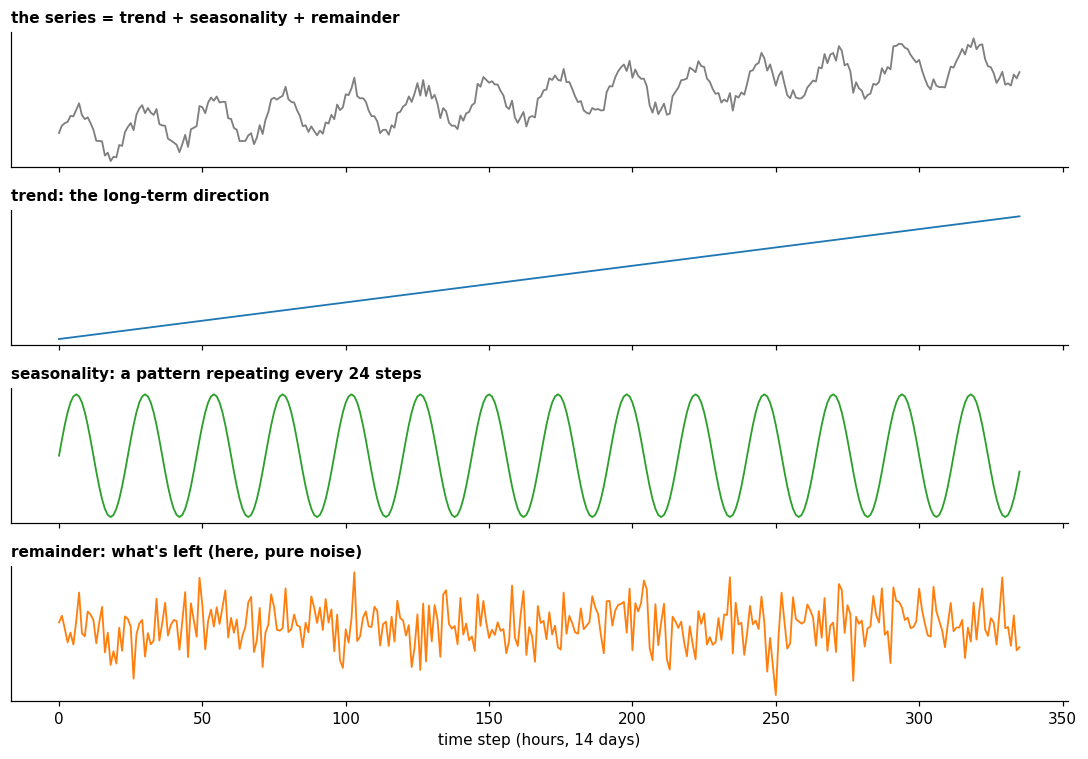
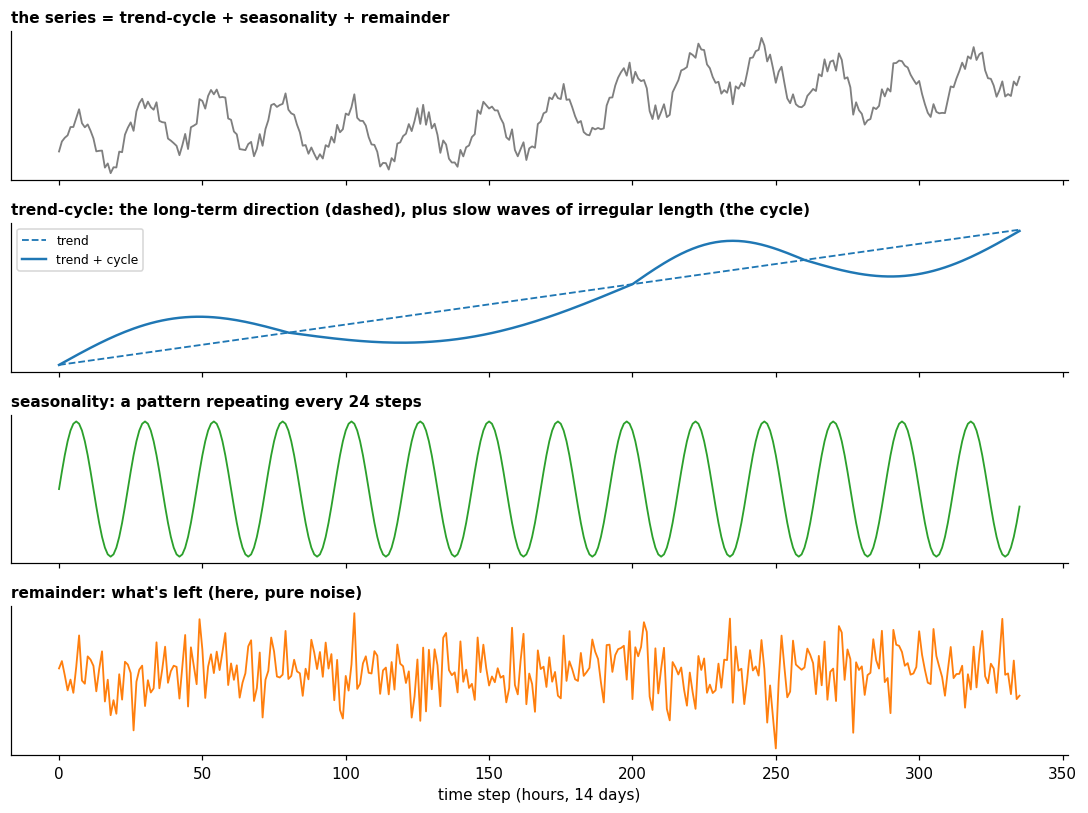
docs(knowledge): explain the trend-cycle; show the cycle in the figure

diff --git a/docs/research/knowledge/time-series/structure/assets/make_figures.py b/docs/research/knowledge/time-series/structure/assets/make_figures.py
@@ -41,25 +41,42 @@ def save(fig, name: str) -> None:
 
 
 def decomposition() -> None:
-    """A series built as trend + seasonality + noise, and its three parts."""
+    """A series built as trend-cycle + seasonality + remainder, and its parts. The
+    trend-cycle panel shows the smooth trend (dashed) and the cycle around it."""
     t = np.arange(24 * 14)
     trend = 0.02 * t
+    # The cycle: rises and falls of irregular length (80, 120, 60, 76 steps).
+    cycle = np.concatenate(
+        [
+            sign * 1.5 * np.sin(np.pi * np.arange(n) / n)
+            for sign, n in zip((1, -1, 1, -1), (80, 120, 60, 76), strict=True)
+        ]
+    )
     seasonal = 2 * np.sin(2 * np.pi * t / 24)
     noise = 0.5 * RNG.standard_normal(t.size)
-    parts = [
-        (
-            trend + seasonal + noise,
-            "the series = trend + seasonality + remainder",
-            GRAY,
-        ),
-        (trend, "trend: the long-term direction", BLUE),
-        (seasonal, "seasonality: a pattern repeating every 24 steps", GREEN),
-        (noise, "remainder: what's left (here, pure noise)", ORANGE),
-    ]
-    fig, axes = plt.subplots(4, 1, figsize=(10, 7), sharex=True)
-    for ax, (y, label, color) in zip(axes, parts, strict=True):
-        ax.plot(t, y, color=color, lw=1.2)
-        ax.set_title(label, loc="left", fontsize=10)
+    fig, axes = plt.subplots(4, 1, figsize=(10, 7.5), sharex=True)
+    axes[0].plot(t, trend + cycle + seasonal + noise, color=GRAY, lw=1.2)
+    axes[0].set_title(
+        "the series = trend-cycle + seasonality + remainder", loc="left", fontsize=10
+    )
+    axes[1].plot(t, trend, color=BLUE, lw=1.2, ls="--", label="trend")
+    axes[1].plot(t, trend + cycle, color=BLUE, lw=1.6, label="trend + cycle")
+    axes[1].set_title(
+        "trend-cycle: the long-term direction (dashed), plus slow waves of irregular "
+        "length (the cycle)",
+        loc="left",
+        fontsize=10,
+    )
+    axes[1].legend(loc="upper left", fontsize=8)
+    axes[2].plot(t, seasonal, color=GREEN, lw=1.2)
+    axes[2].set_title(
+        "seasonality: a pattern repeating every 24 steps", loc="left", fontsize=10
+    )
+    axes[3].plot(t, noise, color=ORANGE, lw=1.2)
+    axes[3].set_title(
+        "remainder: what's left (here, pure noise)", loc="left", fontsize=10
+    )
+    for ax in axes:
         ax.set_yticks([])
     axes[-1].set_xlabel("time step (hours, 14 days)")
     save(fig, "decomposition")

diff --git a/docs/research/knowledge/time-series/structure/patterns.md b/docs/research/knowledge/time-series/structure/patterns.md
@@ -2,7 +2,7 @@
 
 **In one sentence:** most time series are a mix of a few simple patterns (a long-term direction, regular repetitions, slower irregular waves, and a remainder with everything else), and recognizing them is the first step to understanding, predicting or checking a series.
 
-- **Builds on:** [Fourier transform](../../signals/fourier-transform.md), [Time series in time series](../time-series.md).
+- **Builds on:** [Fourier transform](../../signals/fourier-transform.md), [Time series](../time-series.md).
 - **Used by:**
   - [Decomposition](decomposition.md)
   - [Stationarity](stationarity.md)
@@ -20,14 +20,22 @@ Look at almost any real series (electricity use, temperature, sales) and you'll 
 | **Trend** | "a long-term increase or decrease in the data" | a city's electricity use growing year after year |
 | **Seasonality** | a pattern caused by "seasonal factors", "always of a fixed and known period" | higher electricity use every evening; lower every weekend |
 | **Cycle** | "rises and falls that are not of a fixed frequency" | economic booms and recessions |
+| **Remainder** (also called residual) | "anything else in the time series" ([FPP3, chapter 3][fpp-decomposition]): noise, and anything unusual | a one-off outage, measurement noise |
 
-What's left after these is the **remainder** (also called residual): everything else, including noise and anything unusual.
-In the textbook's words, the remainder contains "anything else in the time series" ([FPP3, chapter 3][fpp-decomposition]).
+## How they fit together
 
-![A series built by adding a rising trend, a 24-step seasonal pattern and a random remainder, shown together and separately](assets/decomposition.png)
+In the simplest case the ingredients add up: the series is trend + cycle + seasonality + remainder.
+
+- **Trend and cycle are usually merged.** A slow cycle is hard to tell apart from a trend, so "we usually combine the trend and cycle into a single trend-cycle component (often just called the trend for simplicity)" ([FPP3, chapter 3][fpp-decomposition]).
+- **So there are three parts:** trend-cycle, seasonality and remainder.
+- **The remainder is defined by subtraction:** it is what's left once the trend-cycle and the seasonality are taken out. That's why anything unusual ends up there.
+
+Putting the parts back together by adding them, or by multiplying them, is explained in [decomposition](decomposition.md).
+
+![A series built by adding a trend-cycle (a rising trend with slow irregular waves around it), a 24-step seasonal pattern and a random remainder, shown together and separately](assets/decomposition.png)
 
 The figure shows a series built by adding its parts: the top panel is the sum, the kind of series you'd actually record.
-The three panels below are the parts it was built from.
+The three panels below are the parts it was built from: in the trend-cycle panel, the dashed line is the trend alone, and the solid line adds the cycle's slow waves of irregular length.
 Going the other way, from a recorded series to its parts, is called [decomposition](decomposition.md).
 
 ## Seasonality
@@ -71,6 +79,7 @@ When a series is taken apart, "we usually combine the trend and cycle into a sin
 
 - Most series combine a **trend**, one or more **seasonalities**, **cycles** and a **remainder** (everything else, including noise and anything unusual).
 - **Seasonality** repeats at a fixed, known period; **cycles** rise and fall irregularly and are usually slower.
+- Trend and cycle are usually merged into one **trend-cycle**, so a series has three parts: trend-cycle, seasonality and remainder.
 - As a rule of thumb, a window should cover at least one full period of the slowest seasonality the model must learn from the window alone.
 
 ## Sources

diff --git a/docs/research/knowledge/glossary.md b/docs/research/knowledge/glossary.md
@@ -37,6 +37,7 @@ One line per term, grouped by the area it belongs to, with a link to the doc tha
 - **Stationary series:** a series whose statistical properties don't depend on when it is observed ([stationarity](time-series/structure/stationarity.md)).
 - **Time series:** a list of values in time order, usually equally spaced: a sampled, time-based signal ([time series](time-series/time-series.md)).
 - **Trend:** "a long-term increase or decrease in the data" ([patterns](time-series/structure/patterns.md)).
+- **Trend-cycle:** the trend and the cycle merged into one component, as decompositions usually do ([patterns](time-series/structure/patterns.md#how-they-fit-together)).
 - **Univariate series:** a series with one value per step ([time series](time-series/time-series.md#univariate-and-multivariate)).
 - **White noise:** a series with no autocorrelation: every autocorrelation close to zero ([autocorrelation](time-series/structure/autocorrelation.md)).
 

diff --git a/docs/research/knowledge/time-series/structure/assets/README.md b/docs/research/knowledge/time-series/structure/assets/README.md
@@ -4,7 +4,7 @@ The figures shown in the structure docs of this folder, all drawn by [make_figur
 
 | Figure | What it shows | Shown in |
 |---|---|---|
-| decomposition.png | A series built by adding trend + seasonality + remainder | [patterns.md](../patterns.md) |
+| decomposition.png | A series built by adding trend-cycle + seasonality + remainder; the trend-cycle panel shows the trend alone (dashed) and with the cycle | [patterns.md](../patterns.md) |
 | multiple-seasonality.png | Daily seasonality and lower weekends in one series | [patterns.md](../patterns.md) |
 | seasonal-cyclic.png | Fixed-period seasonality vs irregular cycles | [patterns.md](../patterns.md) |
 | additive-multiplicative.png | Seasonal swings of constant size vs swings growing with the level | [decomposition.md](../decomposition.md) |

diff --git a/docs/research/knowledge/time-series/data-preparation/normalization.md b/docs/research/knowledge/time-series/data-preparation/normalization.md
@@ -4,7 +4,7 @@
 
 **Will cover:** rescaling a series before modeling: statistics learned on the training part only, global vs per-window normalization (stationarization), and undoing it on the output.
 
-- **Builds on:** [Time series in time series](../time-series.md), [Stationarity](../structure/stationarity.md), [Splitting](splitting.md).
+- **Builds on:** [Time series](../time-series.md), [Stationarity](../structure/stationarity.md), [Splitting](splitting.md).
 - **Used by:** [Forecast evaluation](../evaluation/forecast-evaluation.md), [Forecasting models](../models/forecasting-models.md).
 
 ## Sources to use

diff --git a/docs/research/knowledge/time-series/tasks/tasks.md b/docs/research/knowledge/time-series/tasks/tasks.md
@@ -2,7 +2,7 @@
 
 **In one sentence:** the same time series can be asked four different questions (what comes next, what's missing, what's abnormal, what kind is it), and each question is a different task with its own purpose, inputs, outputs and way of being judged.
 
-- **Builds on:** [Time series in time series](../time-series.md), [Patterns](../structure/patterns.md).
+- **Builds on:** [Time series](../time-series.md), [Patterns](../structure/patterns.md).
 - **Used by:**
   - [Forecasting](forecasting.md)
   - [Imputation](imputation.md)

diff --git a/docs/research/knowledge/signals/sampling.md b/docs/research/knowledge/signals/sampling.md
@@ -3,7 +3,7 @@
 **In one sentence:** a computer can only store a signal as numbers taken at separate moments and rounded to a set of levels, and how fast those numbers are taken decides what the signal can still show.
 
 - **Builds on:** [Signals](signals.md).
-- **Used by:** [Fourier transform](fourier-transform.md), [Time series in time series](../time-series/time-series.md).
+- **Used by:** [Fourier transform](fourier-transform.md), [Time series](../time-series/time-series.md).
 
 ## Continuous vs discrete
 

diff --git a/docs/research/knowledge/signals/signals.md b/docs/research/knowledge/signals/signals.md
@@ -3,7 +3,7 @@
 **In one sentence:** a signal is something that changes, recorded as a function, so it can carry information about the thing that produced it.
 
 - **Builds on:** nothing: a starting point.
-- **Used by:** [Sampling](sampling.md), [Fourier transform](fourier-transform.md), [Time series in time series](../time-series/time-series.md).
+- **Used by:** [Sampling](sampling.md), [Fourier transform](fourier-transform.md), [Time series](../time-series/time-series.md).
 
 ## What a signal is
 

diff --git a/docs/research/knowledge/time-series/datasets/README.md b/docs/research/knowledge/time-series/datasets/README.md
@@ -4,7 +4,7 @@
 
 **Will cover:** one file per dataset: what it measures, its size, channels and sampling, its labels and its known issues. How this work uses a dataset belongs in the [method](../../../method/README.md) docs, not here.
 
-- **Builds on:** [Time series in time series](../time-series.md), [Tasks](../tasks/tasks.md).
+- **Builds on:** [Time series](../time-series.md), [Tasks](../tasks/tasks.md).
 - **Used by:** the [method](../../../method/README.md).
 
 ## Sources to use

diff --git a/docs/research/knowledge/time-series/data-preparation/splitting.md b/docs/research/knowledge/time-series/data-preparation/splitting.md
@@ -3,7 +3,7 @@
 **In one sentence:** a series is split by time into a training part and later evaluation parts, and nothing from the later parts may reach training: not a window, not a statistic.
 
 - **Builds on:**
-  - [Time series in time series](../time-series.md)
+  - [Time series](../time-series.md)
   - [Forecasting](../tasks/forecasting.md)
   - [Anomaly detection in time series](../tasks/anomaly-detection.md)
   - [Windows](windows.md)

diff --git a/docs/research/knowledge/time-series/models/tokens-and-patching.md b/docs/research/knowledge/time-series/models/tokens-and-patching.md
@@ -4,7 +4,7 @@
 
 **Will cover:** what a model reads as one token of a series: a single step, a patch of steps, or a whole channel.
 
-- **Builds on:** [Transformers](../../models/transformers.md), [Time series in time series](../time-series.md).
+- **Builds on:** [Transformers](../../models/transformers.md), [Time series](../time-series.md).
 - **Used by:** [Forecasting models](forecasting-models.md).
 
 ## Sources to use

diff --git a/docs/research/knowledge/time-series/data-preparation/windows.md b/docs/research/knowledge/time-series/data-preparation/windows.md
@@ -3,7 +3,7 @@
 **In one sentence:** models don't read a whole time series at once; they read short, fixed-length pieces of it, called windows, cut by sliding along the series.
 
 - **Builds on:**
-  - [Time series in time series](../time-series.md)
+  - [Time series](../time-series.md)
   - [Patterns](../structure/patterns.md)
   - [Autocorrelation](../structure/autocorrelation.md)
   - [Tasks](../tasks/tasks.md)
